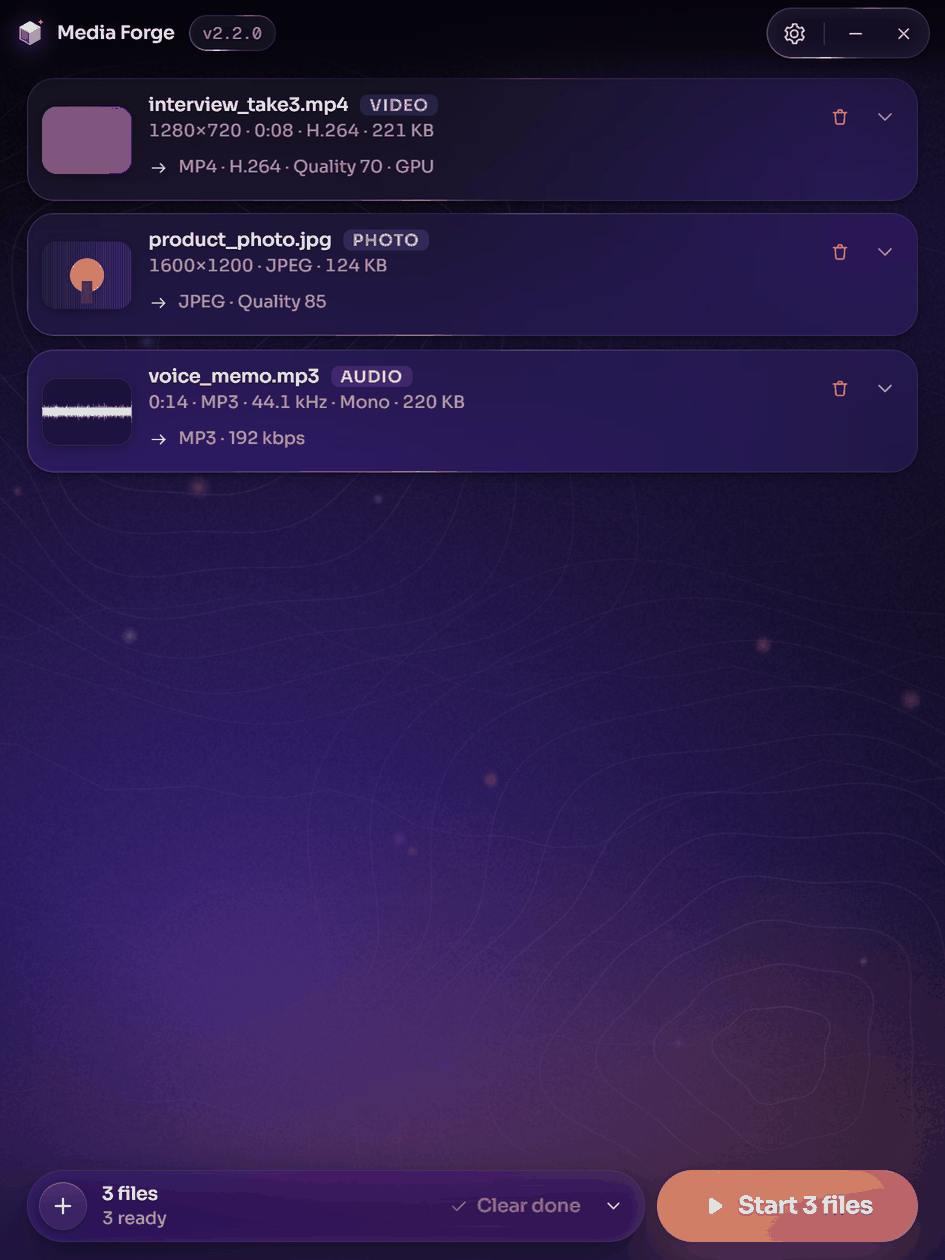
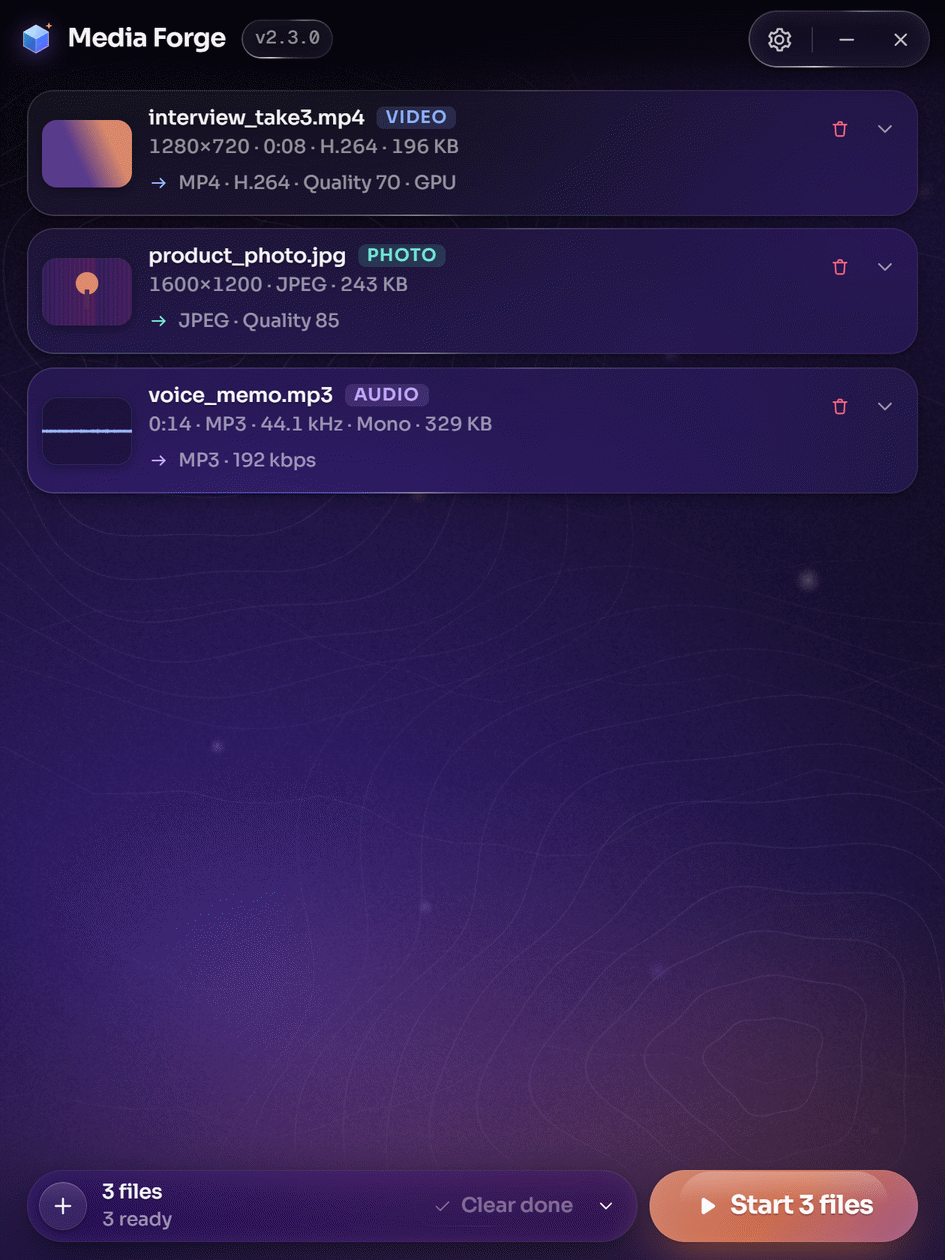
Larger type scale and a 52 px title bar, engine values wrap; release v2.3.0

diff --git a/src/media_forge/ui/css/app.css b/src/media_forge/ui/css/app.css
@@ -896,7 +896,7 @@ html.has-items .edge-bottom { opacity: 1; }
 .eng-row.is-busy .eng-dot { background: var(--amber); animation: ver-pulse 1.4s ease-in-out infinite; }
 .eng-row.is-bad .eng-dot { background: var(--rose); }
 .eng-name { font: var(--t-label); letter-spacing: var(--tr-label); }
-.eng-val { font: var(--t-mono-s); --ff-feat: var(--ff-mono); color: var(--ink-2); overflow: hidden; text-overflow: ellipsis; white-space: nowrap; user-select: text; }
+.eng-val { font: var(--t-mono-s); --ff-feat: var(--ff-mono); color: var(--ink-2); overflow-wrap: anywhere; user-select: text; }   /* wraps: a long GPU name stays whole */
 .eng-st { font: var(--t-caption); letter-spacing: var(--tr-caption); color: var(--ink-3); text-align: right; }
 
 .set-about {

diff --git a/src/media_forge/ui/js/main.js b/src/media_forge/ui/js/main.js
@@ -69,7 +69,7 @@ function initTitlebar() {
   const win = (method) => () => call(method).catch((err) => toast('error', err.message));
   titlebar = mountTitlebar(document.getElementById('titlebar'), {
     name: 'Media Forge',
-    glyph: appGlyph(20),
+    glyph: appGlyph(24),
     onSettings: () => toggleSettings(),
     onMinimize: win('window_minimize'),
     onClose: win('window_close'),

diff --git a/src/media_forge/__init__.py b/src/media_forge/__init__.py
@@ -1,3 +1,3 @@
 """Media Forge: compress, upscale and convert video, photo and audio files."""
 
-__version__ = "2.2.0"
+__version__ = "2.3.0"

diff --git a/docs/releases/v2.3.0.md b/docs/releases/v2.3.0.md
@@ -1,0 +1,17 @@
+## ⪩ Media Forge v2.3.0 ⪨
+
+Larger text and a taller title bar, so the window reads comfortably on a large monitor at 100 % display scaling.
+
+---
+
+### ⤷ Changed ˎˊ˗
+
+- **Text size** — every text style is one step larger: body text 14 px instead of 13, labels and buttons 13.5,
+  headings 17, meta lines 12.5, file details and values 13. Weights and line spacing stay the same.
+- **Title bar** — 52 px instead of 44: a larger app glyph, the app name in the heading size, a taller version
+  pill and larger Settings, Minimize and Close buttons.
+
+### ⤷ Fixed ˎˊ˗
+
+- **Engine list** — a long graphics card name in Settings > Engine wraps onto a second line instead of being cut
+  off.
